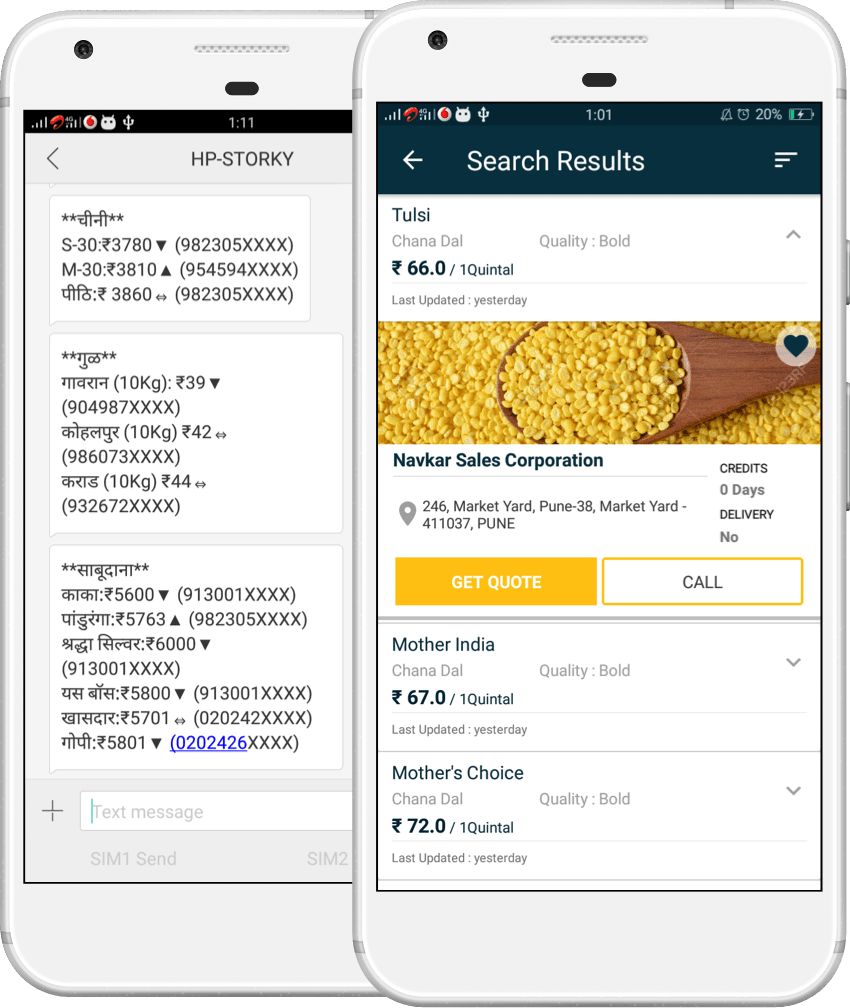
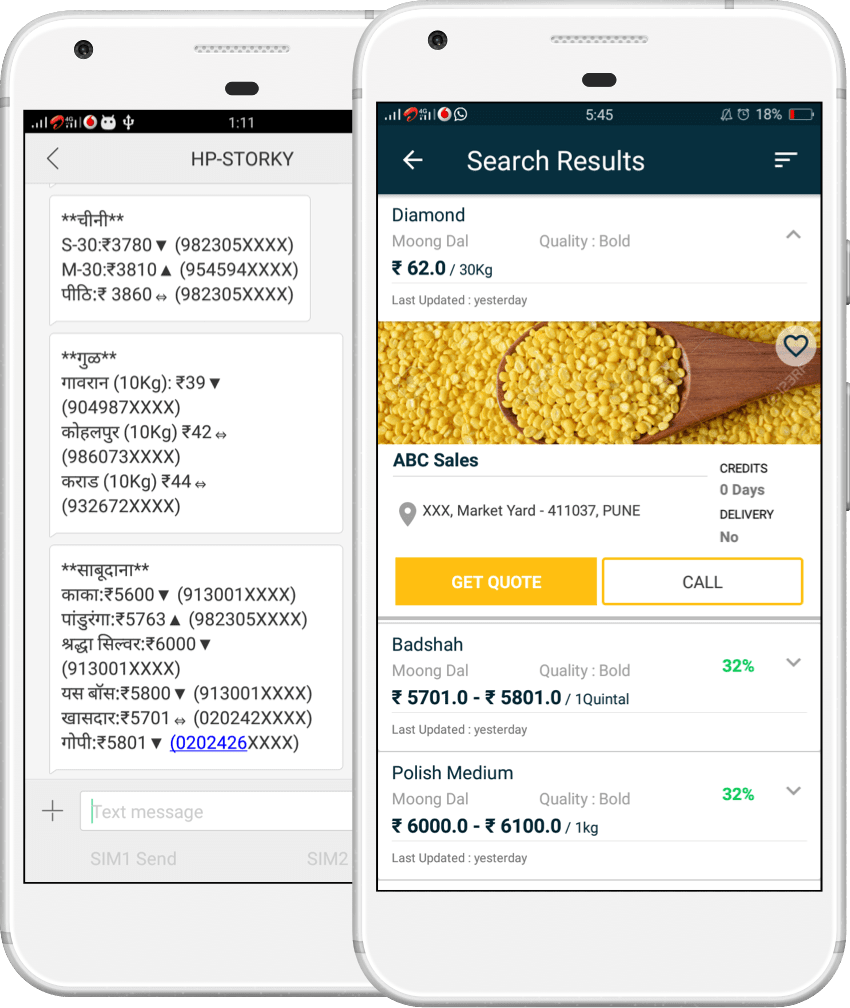
hindi edit + screenshot update + app links
– updated a para in hindi
– app screenshot updated
– app links for retailers and wholesalers added

diff --git a/index.html b/index.html
@@ -30,8 +30,8 @@
 				<div class="col intro">
 					<h2>रिटेलर्स और व्होलसेलर्स को जोड़तें हैं हम </h2>
 					<p>अपने आवश्यक किराना माल की गुणवत्ता और उनकी सर्वश्रेष्ठ कीमतों के साथ नए व्होलसेलर्स खोजें।</p>
-					<p>एस एम एस पर या हमारे मोबाइल ऐप पर दैनिक मूल्य परिवर्तन प्राप्त करने के लिए अभी पंजीकरण करें।</p>
-					<a class="btn" target="_blank" href="https://api.whatsapp.com/send?phone=919146376656&text=%E0%A4%AE%E0%A5%88%E0%A4%82%20%E0%A4%B0%E0%A4%BF%E0%A4%9F%E0%A5%87%E0%A4%B2%E0%A4%B0%20%E0%A4%B9%E0%A5%82%E0%A4%82%20%E0%A4%94%E0%A4%B0%20%E0%A4%AE%E0%A5%88%E0%A4%82%20%E0%A4%B8%E0%A5%8D%E0%A4%9F%E0%A5%8B%E0%A4%B0%E0%A4%95%E0%A5%80%20%E0%A4%AA%E0%A4%B0%20%E0%A4%B8%E0%A4%BE%E0%A4%87%E0%A4%A8%20%E0%A4%85%E0%A4%AA%20%E0%A4%95%E0%A4%B0%E0%A4%A8%E0%A4%BE%20%E0%A4%9A%E0%A4%BE%E0%A4%B9%E0%A4%A4%E0%A4%BE%20%E0%A4%B9%E0%A5%82%E0%A4%82%E0%A5%A4"><img src="img/whatsapp.svg">साइनअप करें अभी</a>
+					<p>आज ही हमारे मोबाइल ऐप या SMS के द्वारा रोज़ मार्केट की क़ीमतें प्राप्त करने के लिए रेजिस्टर करे।</p>
+					<a class="btn" target="_blank" href="https://api.whatsapp.com/send?l=hi&phone=919146376656&text=%E0%A4%AE%E0%A5%88%E0%A4%82%20%E0%A4%B0%E0%A4%BF%E0%A4%9F%E0%A5%87%E0%A4%B2%E0%A4%B0%20%E0%A4%B9%E0%A5%82%E0%A4%82%20%E0%A4%94%E0%A4%B0%20%E0%A4%AE%E0%A5%88%E0%A4%82%20%E0%A4%B8%E0%A5%8D%E0%A4%9F%E0%A5%8B%E0%A4%B0%E0%A4%95%E0%A5%80%20%E0%A4%AA%E0%A4%B0%20%E0%A4%B8%E0%A4%BE%E0%A4%87%E0%A4%A8%20%E0%A4%85%E0%A4%AA%20%E0%A4%95%E0%A4%B0%E0%A4%A8%E0%A4%BE%20%E0%A4%9A%E0%A4%BE%E0%A4%B9%E0%A4%A4%E0%A4%BE%20%E0%A4%B9%E0%A5%82%E0%A4%82%E0%A5%A4"><img src="img/whatsapp.svg">साइनअप करें अभी</a>
 				</div>
 			</div>
 
@@ -46,15 +46,15 @@
 					<li><a href="tel:+919146376656">+91-91463-76656</a></li>
 				</ul>
 				<ul class="col">
-					<li><a href="#">रिटेलर के लिए एंड्रॉइड ऐप</a></li>
-					<li><a href="#">व्होलसेलर्स के लिए एंड्रॉइड ऐप</a></li>
-					<li><a href="#">व्होलसेलर्स के लिए आईओएस ऐप</a></li>
+					<li><a href="https://play.google.com/store/apps/details?id=com.storekey.retailer">रिटेलर के लिए एंड्रॉइड ऐप</a></li>
+					<li><a href="https://play.google.com/store/apps/details?id=in.storekey.storekeywholesaler">व्होलसेलर्स के लिए एंड्रॉइड ऐप</a></li>
+					<li><a href="https://itunes.apple.com/in/app/sk-wholesaler/id1219385004?mt=8">व्होलसेलर्स के लिए आईओएस ऐप</a></li>
 				</ul>
-				<ul class="col">
+				<!-- <ul class="col">
 					<li><a href="#">नियम एवं शर्तें</a></li>
 					<li><a href="#">गोपनीयता नीति</a></li>
 					<li><a href="#">अस्वीकरण</a></li>
-				</ul>
+				</ul> -->
 			</div>
 		</div>
 	</body>

diff --git a/english.html b/english.html
@@ -45,12 +45,12 @@
 					<li><a href="mailto:contact@storekey.in">contact@storekey.in</a></li>
 					<li><a href="tel:+919146376656">+91-91463-76656</a></li>
 				</ul>
-				<!-- <ul class="col">
-					<li><a href="#">Android app for Retailer</a></li>
-					<li><a href="#">Android app for Wholesaler</a></li>
-					<li><a href="#">iOS app for Wholesaler</a></li>
-				</ul>
 				<ul class="col">
+					<li><a href="https://play.google.com/store/apps/details?id=com.storekey.retailer">Android app for Retailer</a></li>
+					<li><a href="https://play.google.com/store/apps/details?id=in.storekey.storekeywholesaler">Android app for Wholesaler</a></li>
+					<li><a href="https://itunes.apple.com/in/app/sk-wholesaler/id1219385004?mt=8">iOS app for Wholesaler</a></li>
+				</ul>
+				<!-- <ul class="col">
 					<li><a href="#">Terms &amp; Conditions</a></li>
 					<li><a href="#">Privacy Policy</a></li>
 					<li><a href="#">Disclaimer</a></li>
